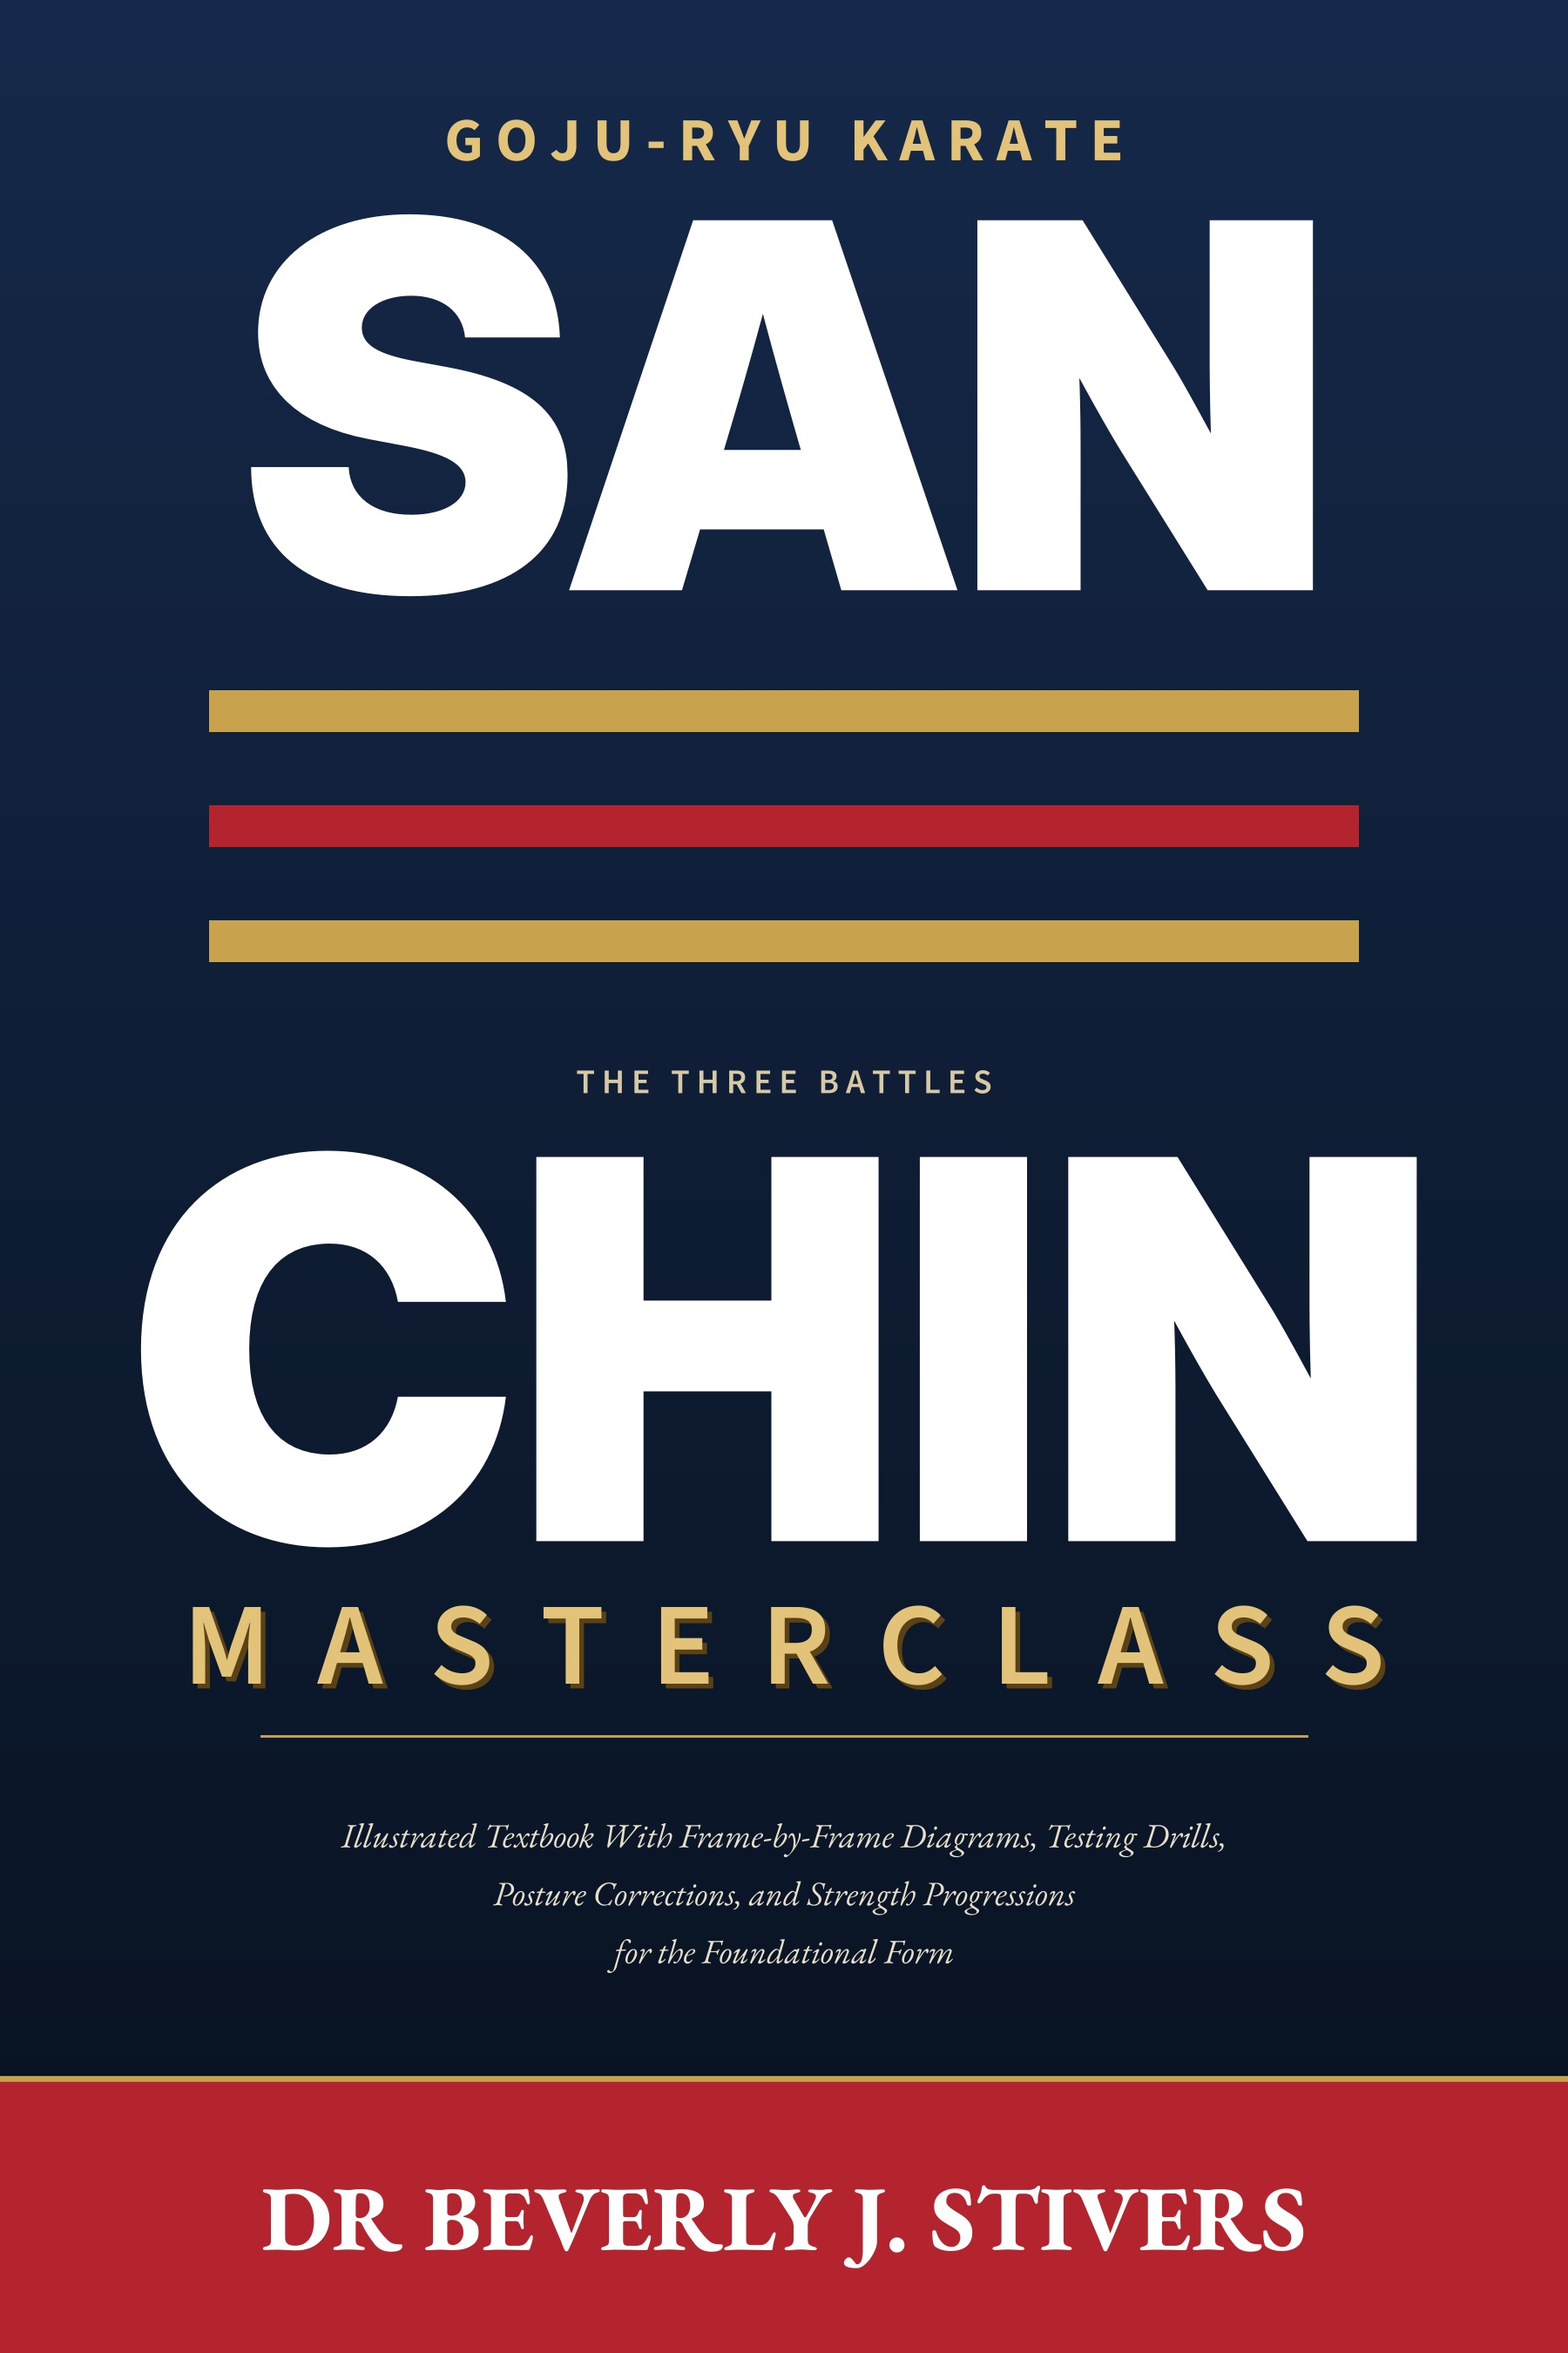
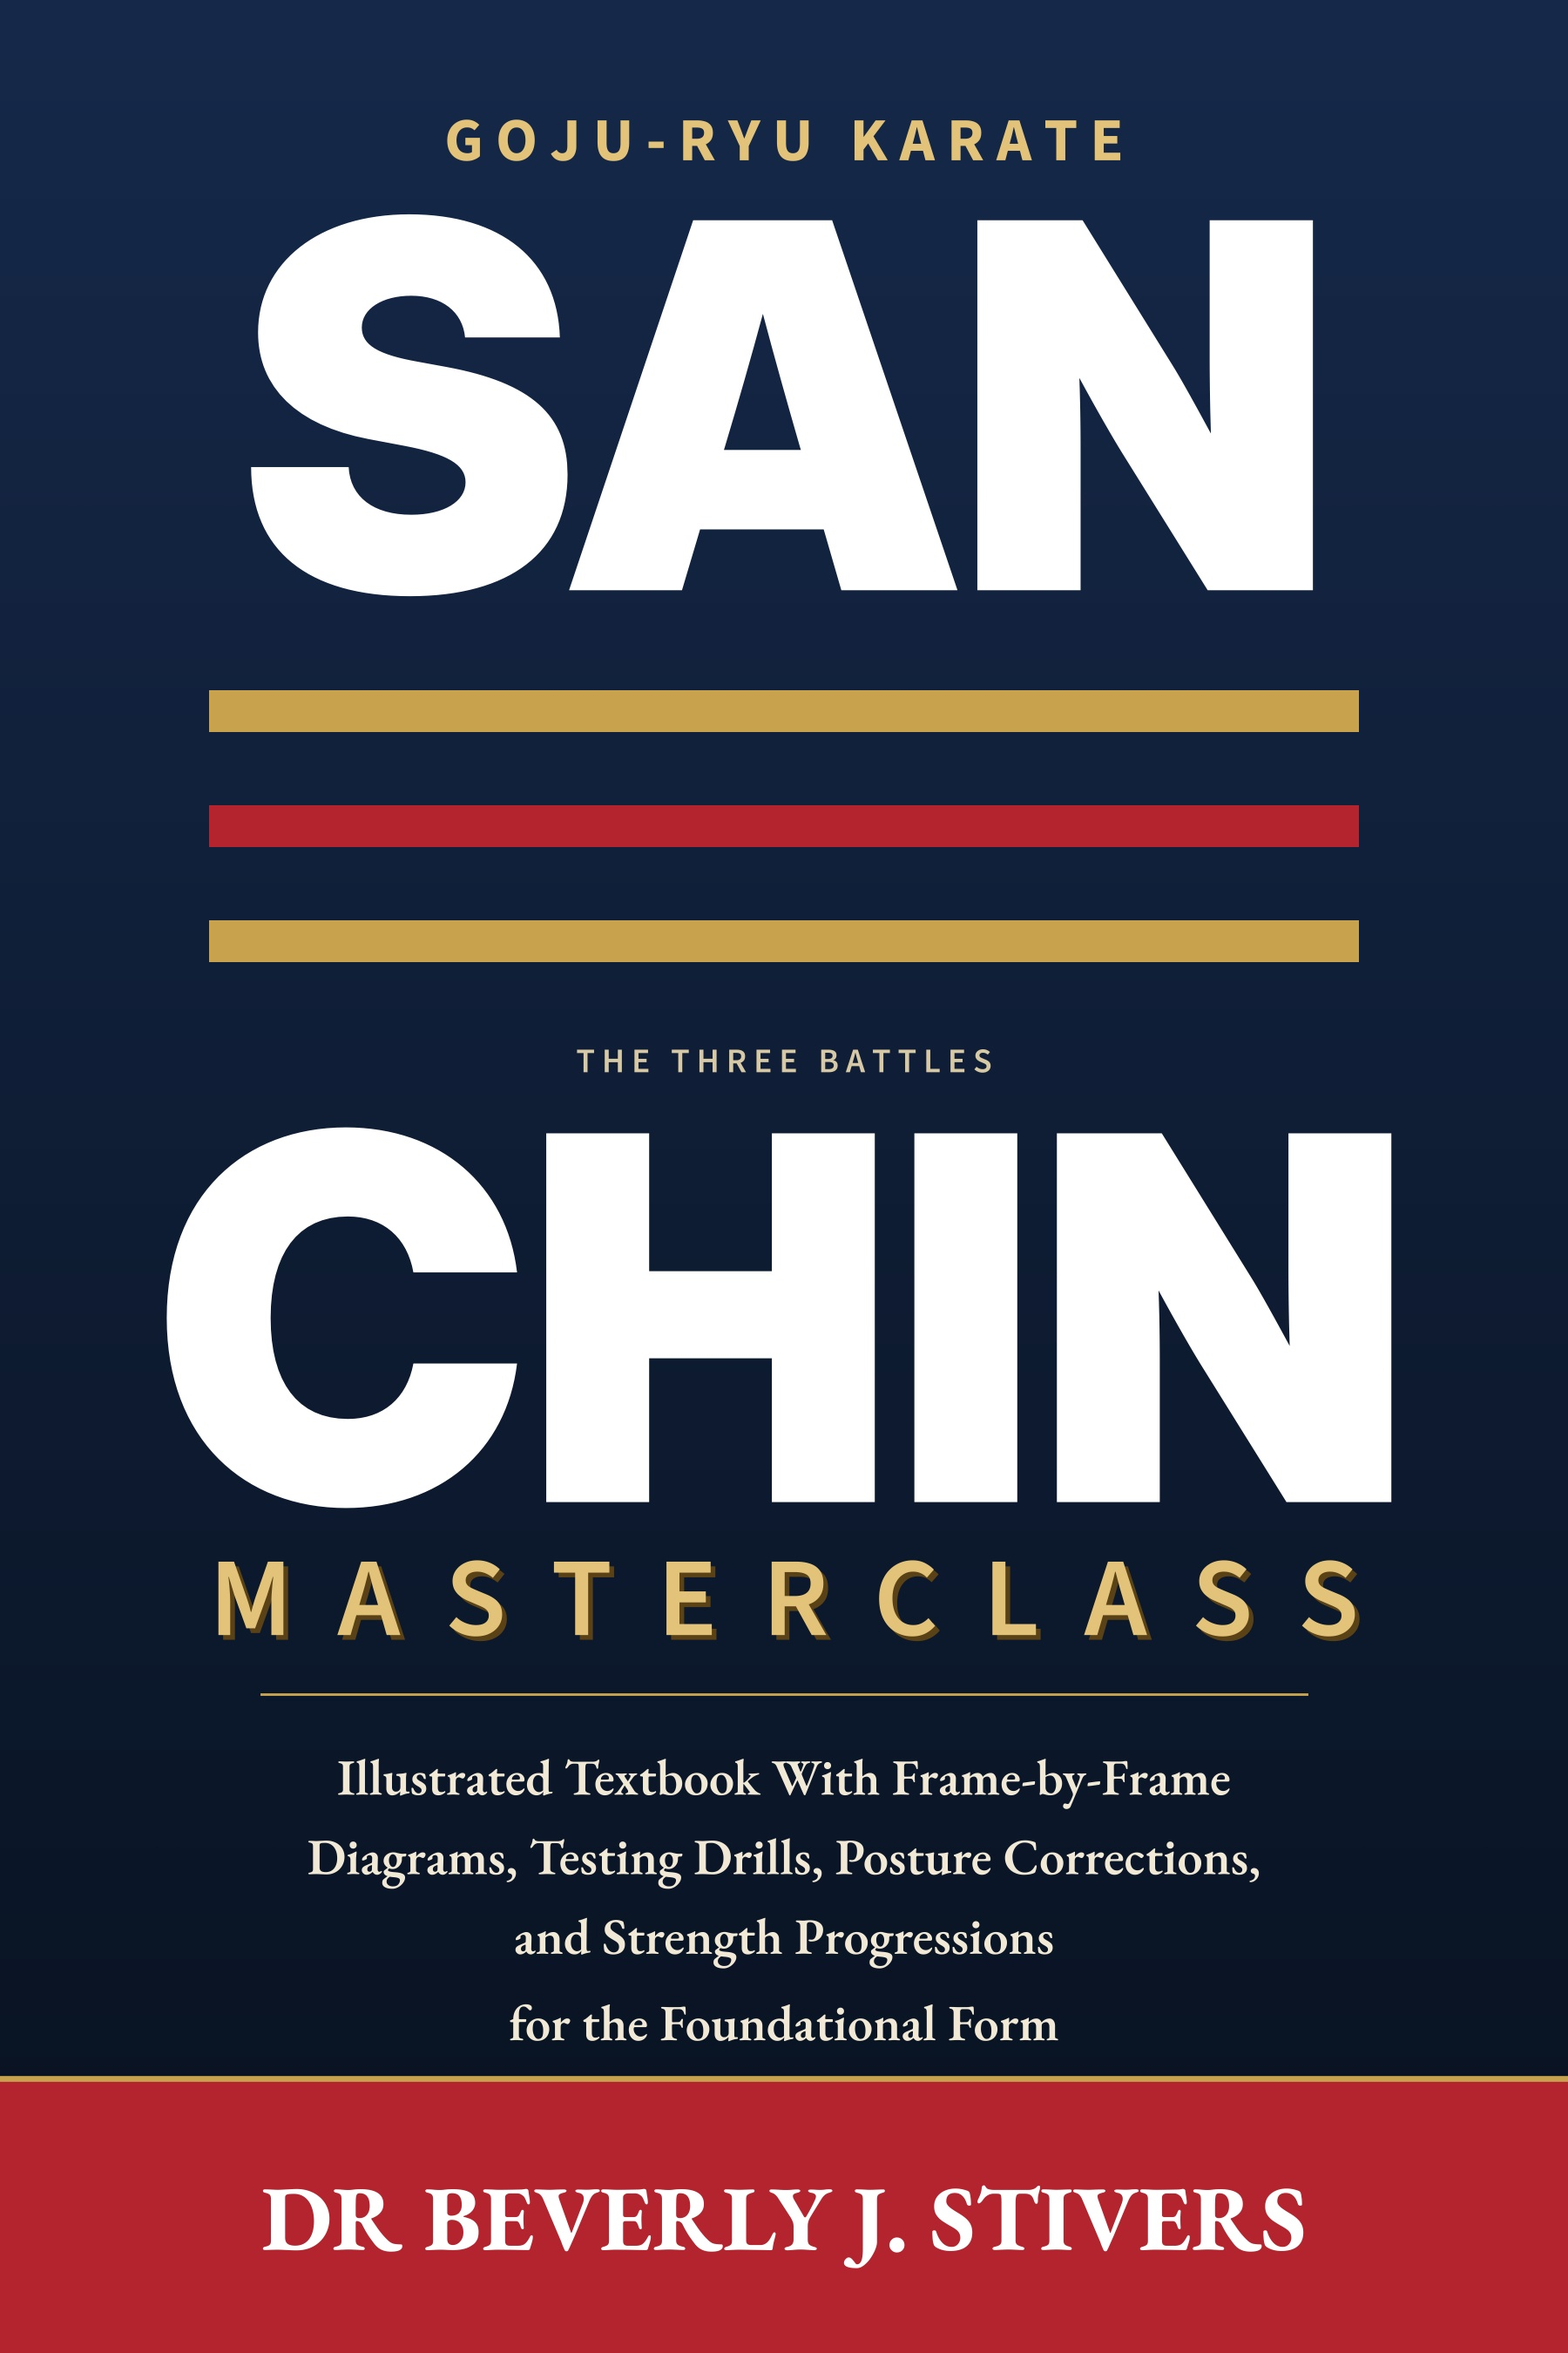
Enlarge cover subtitles on options D, E and F
Claude-Session: https://claude.ai/code/session_01Xb4wKiqTZ9FzwgCkADUeap

Changed region(s): [[0.0933, 0.4356, 0.9022, 0.8711]]

diff --git a/sanchin/figs/covers2.py b/sanchin/figs/covers2.py
@@ -4,8 +4,9 @@ from common import *
 import matplotlib.colors as mc
 from PIL import Image, ImageDraw, ImageFont
 
-SUB = ("Illustrated Textbook With Frame-by-Frame Diagrams, Testing Drills,\nPosture Corrections, and Strength Progressions\n"
-       "for the Foundational Form")
+SUB = ("Illustrated Textbook With Frame-by-Frame\nDiagrams, Testing Drills, Posture Corrections,\n"
+       "and Strength Progressions\nfor the Foundational Form")
+SUBSIZE = 14.5
 g = np.random.default_rng(11)
 
 
@@ -45,16 +46,16 @@ fig, ax = new()
 gradient(ax, "#060203", "#7A121B", zorder=0.4)
 glow(ax, 30, 58, 34, 30, "#B3242E", 0.5, zorder=0.5)
 ax.text(30.6, 47.4 - 0, "", zorder=1.9)
-ax.text(30, 67, "三", fontproperties=JP_FONT, fontsize=150, color=GOLD, alpha=0.92, ha="center", va="center", zorder=2)
-ax.text(30, 46.5, "戦", fontproperties=JP_FONT, fontsize=150, color=GOLD, alpha=0.92, ha="center", va="center", zorder=2)
+ax.text(30, 70.5, "三", fontproperties=JP_FONT, fontsize=128, color=GOLD, alpha=0.92, ha="center", va="center", zorder=2)
+ax.text(30, 52.5, "戦", fontproperties=JP_FONT, fontsize=128, color=GOLD, alpha=0.92, ha="center", va="center", zorder=2)
 ax.add_patch(Rectangle((0, 20), 60, 70, fc="none", ec="none"))
 ax.add_patch(Rectangle((3, 3), 54, 84, fc="none", ec=GOLD, lw=0.8, zorder=3))
 fit(fig, ax, 30, 84.0, spaced("GOJU-RYU KARATE", 1), 26, color=LGOLD, family="Source Sans 3", fontweight="bold", zorder=5)
 # title on a dark band
-ax.add_patch(Rectangle((3, 14.8), 54, 15.4, fc="#0B0304", ec="none", alpha=0.88, zorder=4))
-fit(fig, ax, 30, 25.3, TITLE, 46, color="#FFFFFF", fontproperties=BLACK_FONT, zorder=5)
-gold_text(fig, ax, 30, 18.4, spaced("MASTERCLASS", 2), 40, color=LGOLD, family="Source Sans 3", fontweight="semibold", zorder=5)
-ax.text(30, 10.0, SUB, ha="center", va="center", fontsize=8.6, color="#EAD9C0", family=SERIF, style="italic", linespacing=1.3, zorder=5)
+ax.add_patch(Rectangle((3, 24.6), 54, 15.6, fc="#0B0304", ec="none", alpha=0.88, zorder=4))
+fit(fig, ax, 30, 35.1, TITLE, 46, color="#FFFFFF", fontproperties=BLACK_FONT, zorder=5)
+gold_text(fig, ax, 30, 28.2, spaced("MASTERCLASS", 2), 40, color=LGOLD, family="Source Sans 3", fontweight="semibold", zorder=5)
+ax.text(30, 16.0, SUB, ha="center", va="center", fontsize=SUBSIZE, color="#F3E6CF", family=SERIF, fontweight="semibold", linespacing=1.22, zorder=5)
 fit(fig, ax, 30, 4.9, AUTHOR, 30, color=LGOLD, family="Source Sans 3", fontweight="bold", zorder=5)
 save_cover(fig, "cover_D_kanji_monument")
 
@@ -62,15 +63,15 @@ save_cover(fig, "cover_D_kanji_monument")
 fig, ax = new()
 texture(ax, CREAM, 0.07, zorder=0.4)
 glow(ax, 30, 44, 34, 40, "#FFFFFF", 0.35, zorder=0.5)
-enso(ax, 30, 44, 20.5, color=INK, max_w=34, seed=9, start=1.05, sweep=2 * math.pi - 0.55)
-splatter(ax, 45, 60, INK, n=70, spread=6)
-splatter(ax, 16, 32, INK, n=30, spread=4)
+enso(ax, 30, 49, 19.0, color=INK, max_w=34, seed=9, start=1.05, sweep=2 * math.pi - 0.55)
+splatter(ax, 44.5, 64, INK, n=70, spread=6)
+splatter(ax, 17, 38, INK, n=30, spread=4)
 fit(fig, ax, 30, 84.0, spaced("GOJU-RYU KARATE", 1), 26, color=CRIMSON, family="Source Sans 3", fontweight="bold")
-fit(fig, ax, 30, 47.6, TITLE, 27, color=INK, fontproperties=BLACK_FONT, zorder=6)
-fit(fig, ax, 30, 41.4, spaced("MASTERCLASS", 1), 24, color=CRIMSON, family=SERIF, fontweight="semibold", zorder=6)
-hanko(ax, 47.0, 66.0, 3.8, bg=CRIMSON, fg=CREAM)
-ax.text(30, 15.6, SUB, ha="center", va="center", fontsize=10.0, color="#2A2A2E", family=SERIF, style="italic", linespacing=1.35)
-ax.plot([24, 36], [10.2, 10.2], color=CRIMSON, lw=1.0)
+fit(fig, ax, 30, 52.4, TITLE, 26, color=INK, fontproperties=BLACK_FONT, zorder=6)
+fit(fig, ax, 30, 46.4, spaced("MASTERCLASS", 1), 23, color=CRIMSON, family=SERIF, fontweight="semibold", zorder=6)
+hanko(ax, 48.0, 70.0, 3.6, bg=CRIMSON, fg=CREAM)
+ax.text(30, 18.6, SUB, ha="center", va="center", fontsize=SUBSIZE, color="#1E1E22", family=SERIF, fontweight="semibold", linespacing=1.22)
+ax.plot([24, 36], [10.8, 10.8], color=CRIMSON, lw=1.0)
 fit(fig, ax, 30, 6.0, AUTHOR, 38, color=INK, family=SERIF, fontweight="bold")
 save_cover(fig, "cover_E_ink_and_paper")
 
@@ -82,11 +83,11 @@ for k, (w, y) in enumerate(((44, 62.0), (44, 57.6), (44, 53.2))):
     ax.add_patch(Rectangle((8, y), w, 1.6, fc=GOLD if k != 1 else "#B3242E", ec="none", zorder=2))
 fit(fig, ax, 30, 84.6, spaced("GOJU-RYU KARATE", 1), 26, color=LGOLD, family="Source Sans 3", fontweight="bold", zorder=5)
 fit(fig, ax, 30, 74.5, "SAN", 42, color="#FFFFFF", fontproperties=BLACK_FONT, zorder=5)
-fit(fig, ax, 30, 38.4, "CHIN", 50, color="#FFFFFF", fontproperties=BLACK_FONT, zorder=5)
-gold_text(fig, ax, 30, 27.0, spaced("MASTERCLASS", 2), 46, color=LGOLD, family="Source Sans 3", fontweight="semibold", zorder=5)
-ax.text(30, 48.6, spaced("THE THREE BATTLES", 1), ha="center", va="center", fontsize=9.5, fontweight="semibold", color="#D8C9A6", family="Source Sans 3", zorder=5)
-ax.plot([10, 50], [23.6, 23.6], color=GOLD, lw=0.7, zorder=5)
-ax.text(30, 17.4, SUB, ha="center", va="center", fontsize=9.4, color="#E7DECB", family=SERIF, style="italic", linespacing=1.3, zorder=5)
+fit(fig, ax, 30, 39.6, "CHIN", 48, color="#FFFFFF", fontproperties=BLACK_FONT, zorder=5)
+gold_text(fig, ax, 30, 28.8, spaced("MASTERCLASS", 2), 44, color=LGOLD, family="Source Sans 3", fontweight="semibold", zorder=5)
+ax.text(30, 49.4, spaced("THE THREE BATTLES", 1), ha="center", va="center", fontsize=9.5, fontweight="semibold", color="#D8C9A6", family="Source Sans 3", zorder=5)
+ax.plot([10, 50], [25.2, 25.2], color=GOLD, lw=0.7, zorder=5)
+ax.text(30, 17.2, SUB, ha="center", va="center", fontsize=SUBSIZE - 0.5, color="#F1E8D6", family=SERIF, fontweight="semibold", linespacing=1.2, zorder=5)
 ax.add_patch(Rectangle((0, 0), 60, 10.5, fc="#B3242E", zorder=4))
 ax.plot([0, 60], [10.5, 10.5], color=GOLD, lw=1.6, zorder=5)
 fit(fig, ax, 30, 5.2, AUTHOR, 40, color="#FFFFFF", family=SERIF, fontweight="bold", zorder=6)
